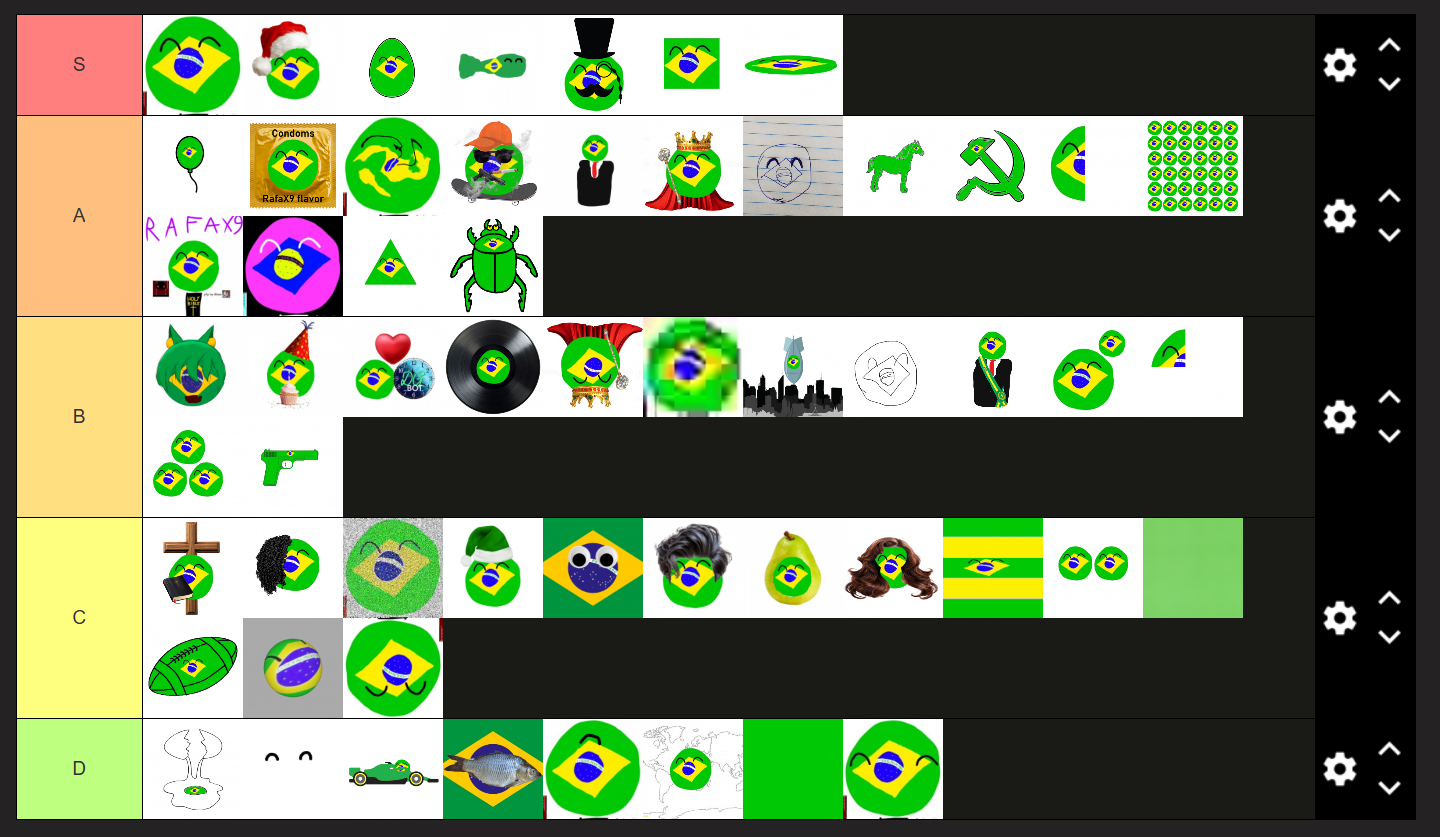
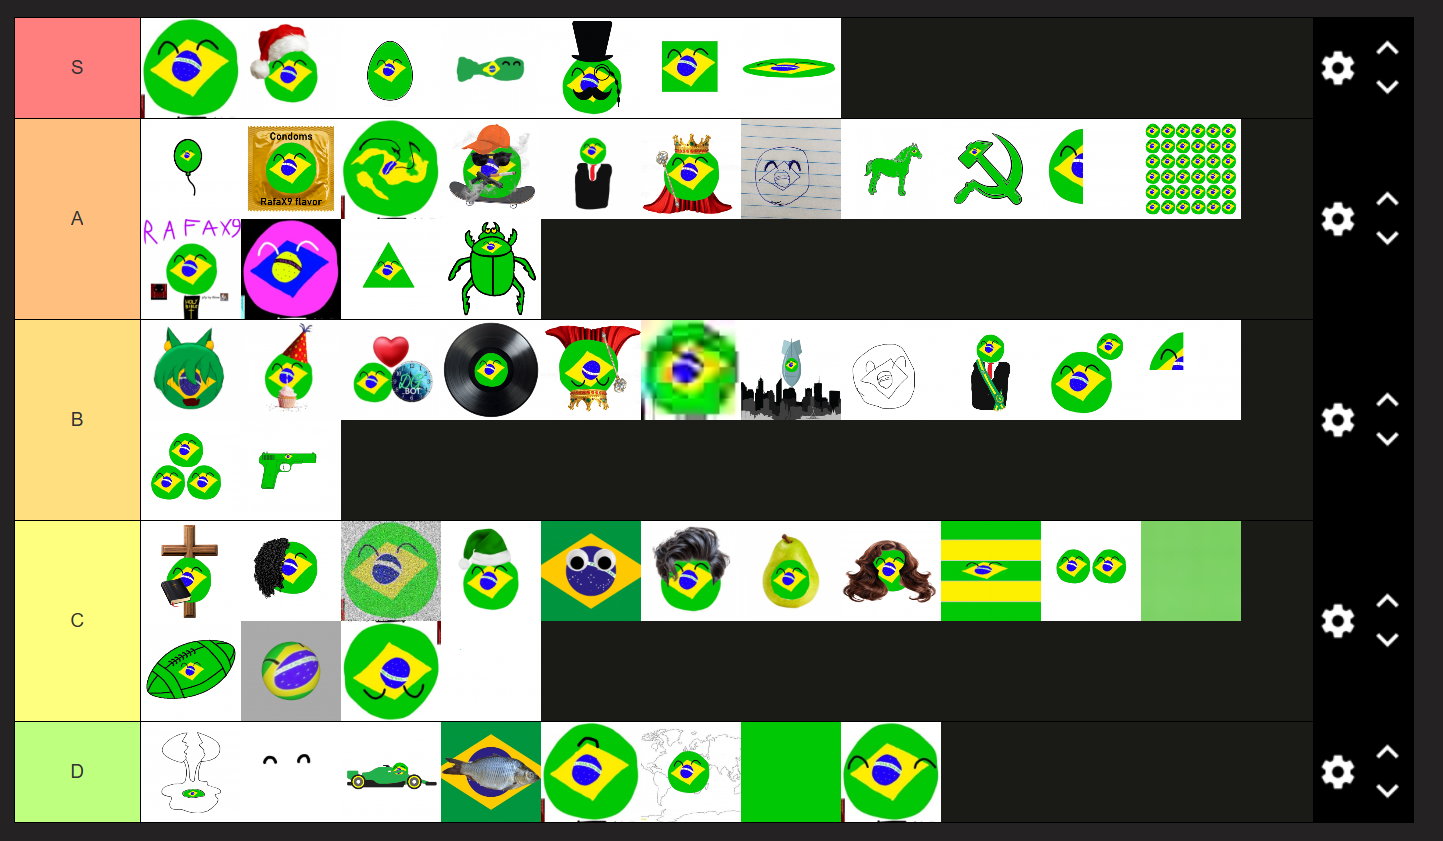
Updated README and tierlist

diff --git a/README.md b/README.md
@@ -14,7 +14,7 @@ However, in some of them, the white stripe in the center of the countryball was 
 
 ![Curly hair RafaX9 pfp](curlyhairrafa.png "Curly hair RafaX9 pfp")
 
-Yet another fun fact: you can make a tier list of all these images!! You can find the template here: [https://tiermaker.com/create/rafax9-pfps-18910073](https://tiermaker.com/create/rafax9-pfps-18910073). The template is up to date as of gunx9.png.
+Yet another fun fact: you can make a tier list of all these images!! You can find the template here: [https://tiermaker.com/create/rafax9-pfps-18910073](https://tiermaker.com/create/rafax9-pfps-18910073). The template is up to date as of rafax0.000001.png.
 
 My own ranking is:
 
